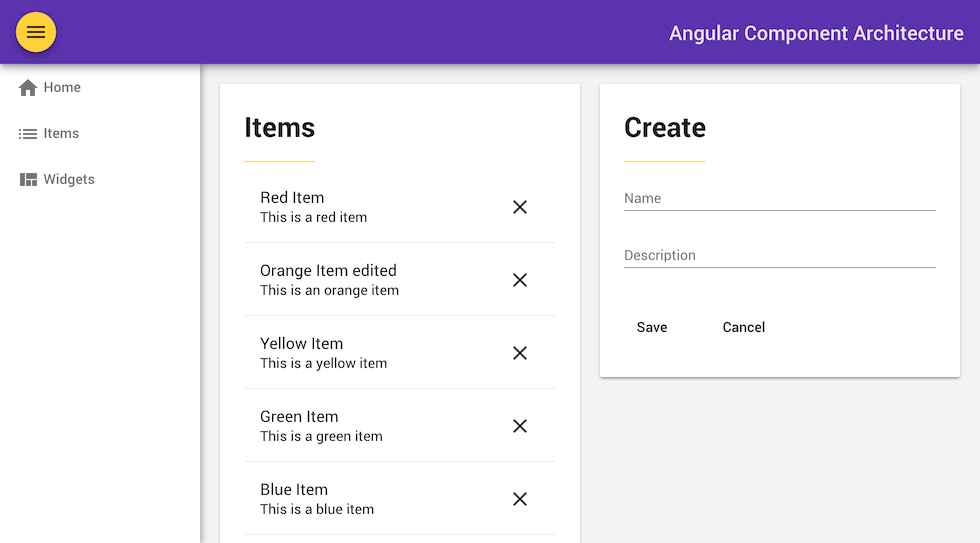
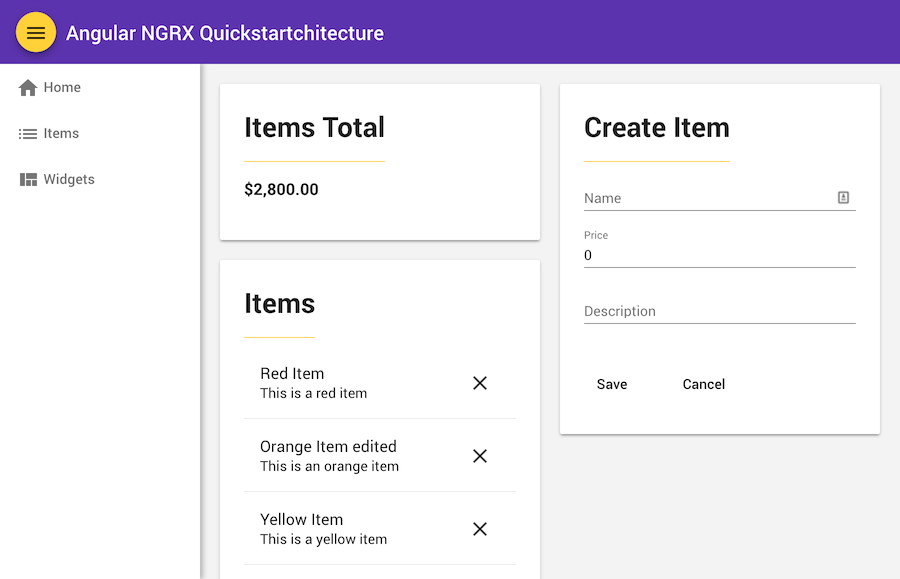
Update app name everywhere and update readme screenshot

diff --git a/apps/dashboard/src/app/app.component.ts b/apps/dashboard/src/app/app.component.ts
@@ -6,7 +6,7 @@ import { Component } from '@angular/core';
   styleUrls: ['./app.component.css']
 })
 export class AppComponent {
-  title = 'Angular Component Architecture';
+  title = 'Angular NGRX Quickstartchitecture';
   links = [
     { path: '/home', icon: 'home', label: 'Home'},
     { path: '/items', icon: 'list', label: 'Items'},

diff --git a/README.md b/README.md
@@ -1,8 +1,8 @@
-# Angular Component Architecture
+# Angular NGRX Quickstartchitecture
 
-A simple REST app built using Angular, Angular Material and the Angular CLI.
+A simple REST app built using Angular, Angular Material, NGRX, and the Angular CLI via Nrwl.
 
-![Angular Component Architecture App](apps/dashboard/src/assets/img/readme-screenshot.png)
+![Angular NGRX Quickstart App](apps/dashboard/src/assets/img/readme-screenshot.png)
 
 This app demonstrates how to structure and handle communication between components in an Angular app.
 
@@ -18,8 +18,8 @@ There are two main parts to this application. The first is the REST API, for whi
 To get started run the commands below.
 
 ```bash
-$ git clone https://github.com/onehungrymind/angular-component-architecture.git
-$ cd angular-component-architecture
+$ git clone https://github.com/onehungrymind/angular-ngrx-quickstart.git
+$ cd angular-ngrx-quickstart
 $ npm install
 $ npm start
 ```
